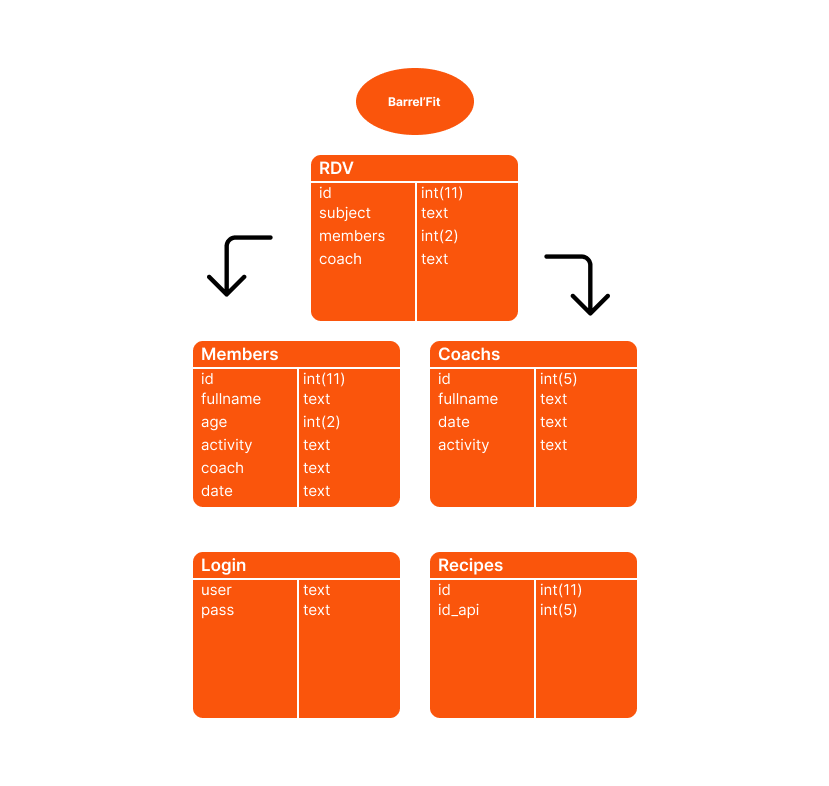
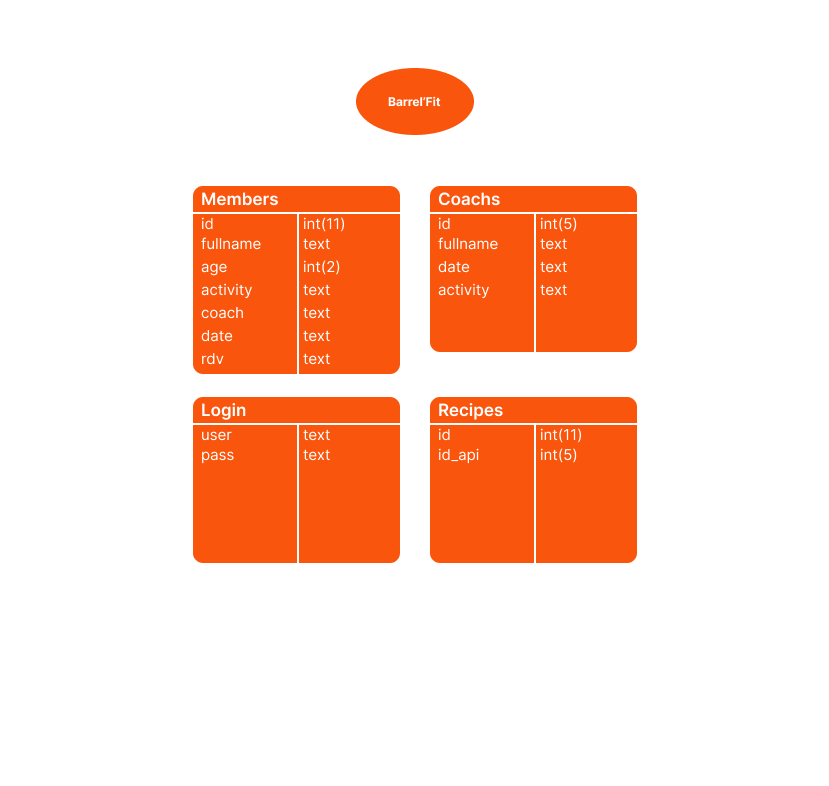
Add Rdv for machines

Changed region(s): [[0.2111, 0.1832, 0.7841, 0.916], [0.5127, 0.6412, 0.7841, 0.916]]

diff --git a/js/script.js b/js/script.js
@@ -44,6 +44,7 @@ let select = document.querySelector(".select_all");
 let select_piscine = document.querySelector(".select_piscine");
 let select_fitness = document.querySelector(".select_fitness");
 let select_machines = document.querySelector(".select_machines");
+let date_machines = document.querySelector(".date-machines");
 select.addEventListener("change", function () {
   if (select.value == "piscine") {
     select_piscine.classList.remove("hidden");
@@ -53,8 +54,10 @@ select.addEventListener("change", function () {
     select_fitness.classList.remove("hidden");
     select_machines.classList.add("hidden");
     select_piscine.classList.add("hidden");
+    date_machines.classList.add("hidden");
   } else {
     select_machines.classList.remove("hidden");
+    date_machines.classList.remove("hidden");
     select_piscine.classList.add("hidden");
     select_fitness.classList.add("hidden");
   }

diff --git a/widgets/_AddMember.php b/widgets/_AddMember.php
@@ -9,7 +9,7 @@ function AddMember()
         foreach ($_POST as $field => $val) {
             if ($field == 'submit') {
             } else {
-                if ($field == "date") {
+                if ($field == "rdv") {
 
                     $values .= "'$val'";
                 } else {
@@ -67,7 +67,6 @@ function AddMember()
             <option value="Priscillia Coven">Priscillia Coven</option>
         </select>
 
-        <input type="date" min="">
         <select name="coach" class="select_machines hidden">
             <option value="default" selected disabled>Choisissez votre coach</option>
             <option value="Rose Mariet">Rose Mariet</option>
@@ -76,6 +75,7 @@ function AddMember()
             <option value="Juliette Stamina">Juliette Stamina</option>
         </select>
         <input type="hidden" name="date" value="<?php echo date('l jS \of F Y h:i:s A'); ?>">
+        <input class="date-machines hidden" name="rdv" type="date" min="<?php date('l jS \of F Y h:i:s A'); ?>" max="2022-05-30">
         <button name="submit">S'inscrire</button>
     </form>
 <?php

diff --git a/utils/functions.php b/utils/functions.php
@@ -183,6 +183,7 @@ function CardClub($table = "", $cardname)
                 echo "<h4> Registration for :  " . $ligne->activity . "</h4>";
                 echo "<h4>" . $ligne->age . " ans</h4>";
                 echo "<h5> Registration date : " . $ligne->date . "</h5>";
+                echo "<h5> Rdv : " . $ligne->rdv  . "</h5>";
             }
             ?>
             <form action="" method="POST">
